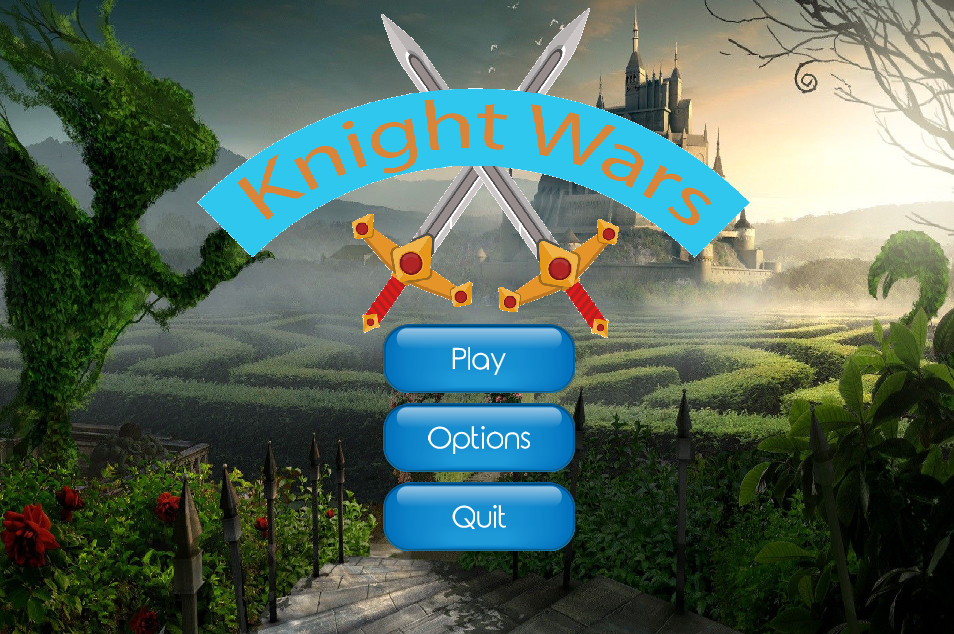
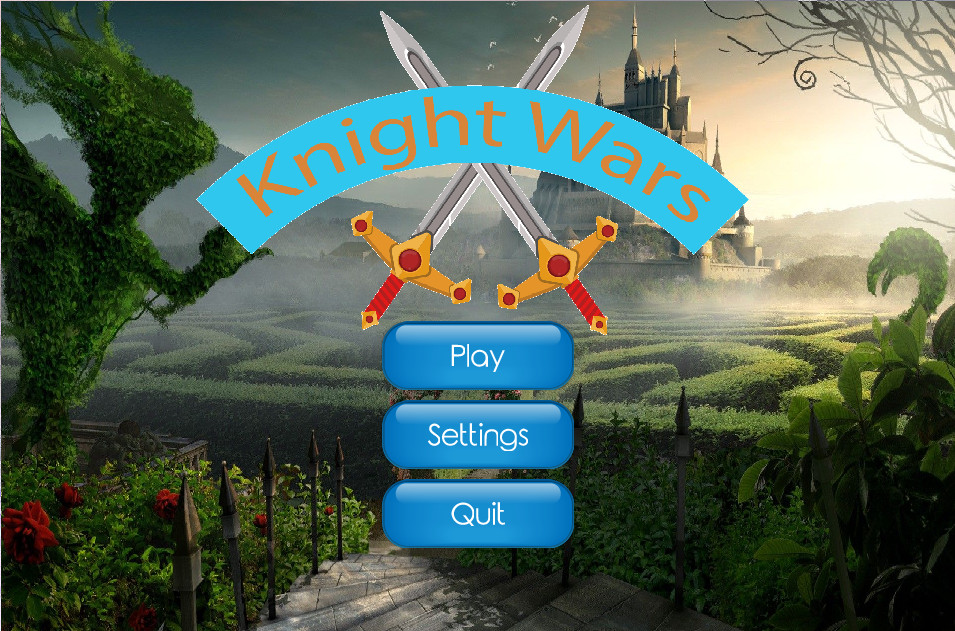
feat: update menu preview

diff --git a/core/src/com/knightwars/userInterface/MainMenuScreen.java b/core/src/com/knightwars/userInterface/MainMenuScreen.java
@@ -53,7 +53,7 @@ public class MainMenuScreen implements Screen {
         });
 
         // Create the options button
-        TextButton optionsButton = new TextButton("Options", skin);
+        TextButton optionsButton = new TextButton("Settings", skin);
 
         // Create the quit button
         TextButton quitButton = new TextButton("Quit", skin);
@@ -70,7 +70,7 @@ public class MainMenuScreen implements Screen {
         final float buttonPadding = 10f; // Padding between each button
         final float buttonPosY = 400f;   //  Vertical position of the lowest button
 
-        // Create a table to contain the buttons
+        // Create a table to contain the buttons, scale the buttons and add padding
         Table menuTable = new Table();
         menuTable.add(playButton).width(playButton.getWidth()*buttonScale).height(playButton.getHeight()*buttonScale).pad(buttonPadding).row();
         menuTable.add(optionsButton).width(playButton.getWidth()*buttonScale).height(playButton.getHeight()*buttonScale).pad(buttonPadding).row();
@@ -110,6 +110,8 @@ public class MainMenuScreen implements Screen {
     public void hide() {}
 
     @Override
-    public void dispose() {}
+    public void dispose() {
+        stage.dispose();
+    }
 
 }
